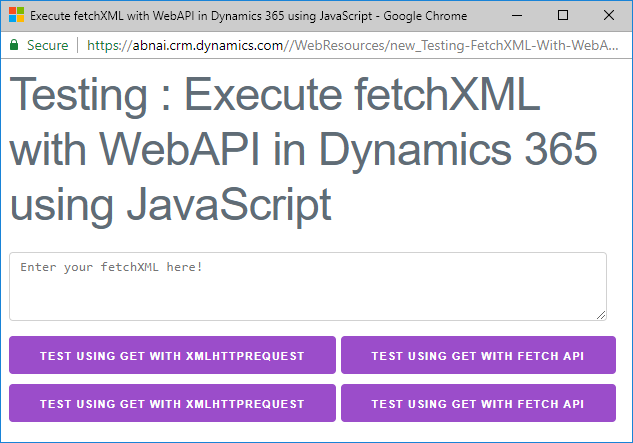
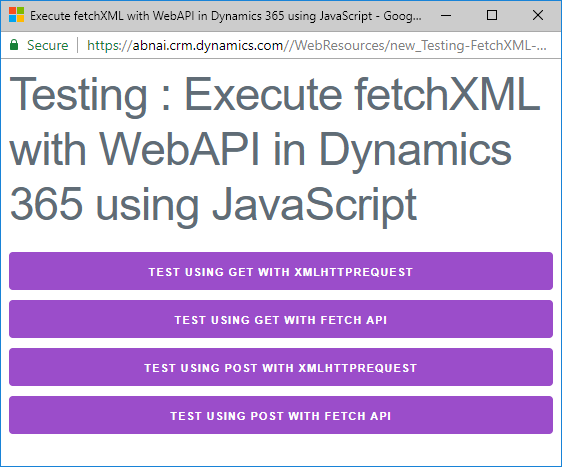
completed

diff --git a/Execute-fetchXml-WebAPI-Dynamics-365-Using-JavaScript-Example/ReadMe.md b/Execute-fetchXml-WebAPI-Dynamics-365-Using-JavaScript-Example/ReadMe.md
@@ -263,8 +263,20 @@ fetch(Xrm.Page.context.getClientUrl() + "/api/data/v9.0/$batch", {
 
 ## Testing the code in Dyanmics 365
 
+To test the above code I made small tweaks to run it from HTML web resource as you can see below.
+
 <script src="https://gist.github.com/AshV/2639c65018b703457b2fe26272093774.js"></script>
+
+Create new HTML web resource with above code & publish it.
 
 ![Test-Web-Resource](assets/Test-Web-Resource.png)
 
+Click on the URL to open it, you will see below window.
+
 ![Test-Window](assets/Test-Window.png)
+
+Press F12 to open console, click on buttons & verify the retrieved data in console or alert.
+
+![Testing](assets/Testing.png)
+
+> Thanks for reading, Hope it helps!
